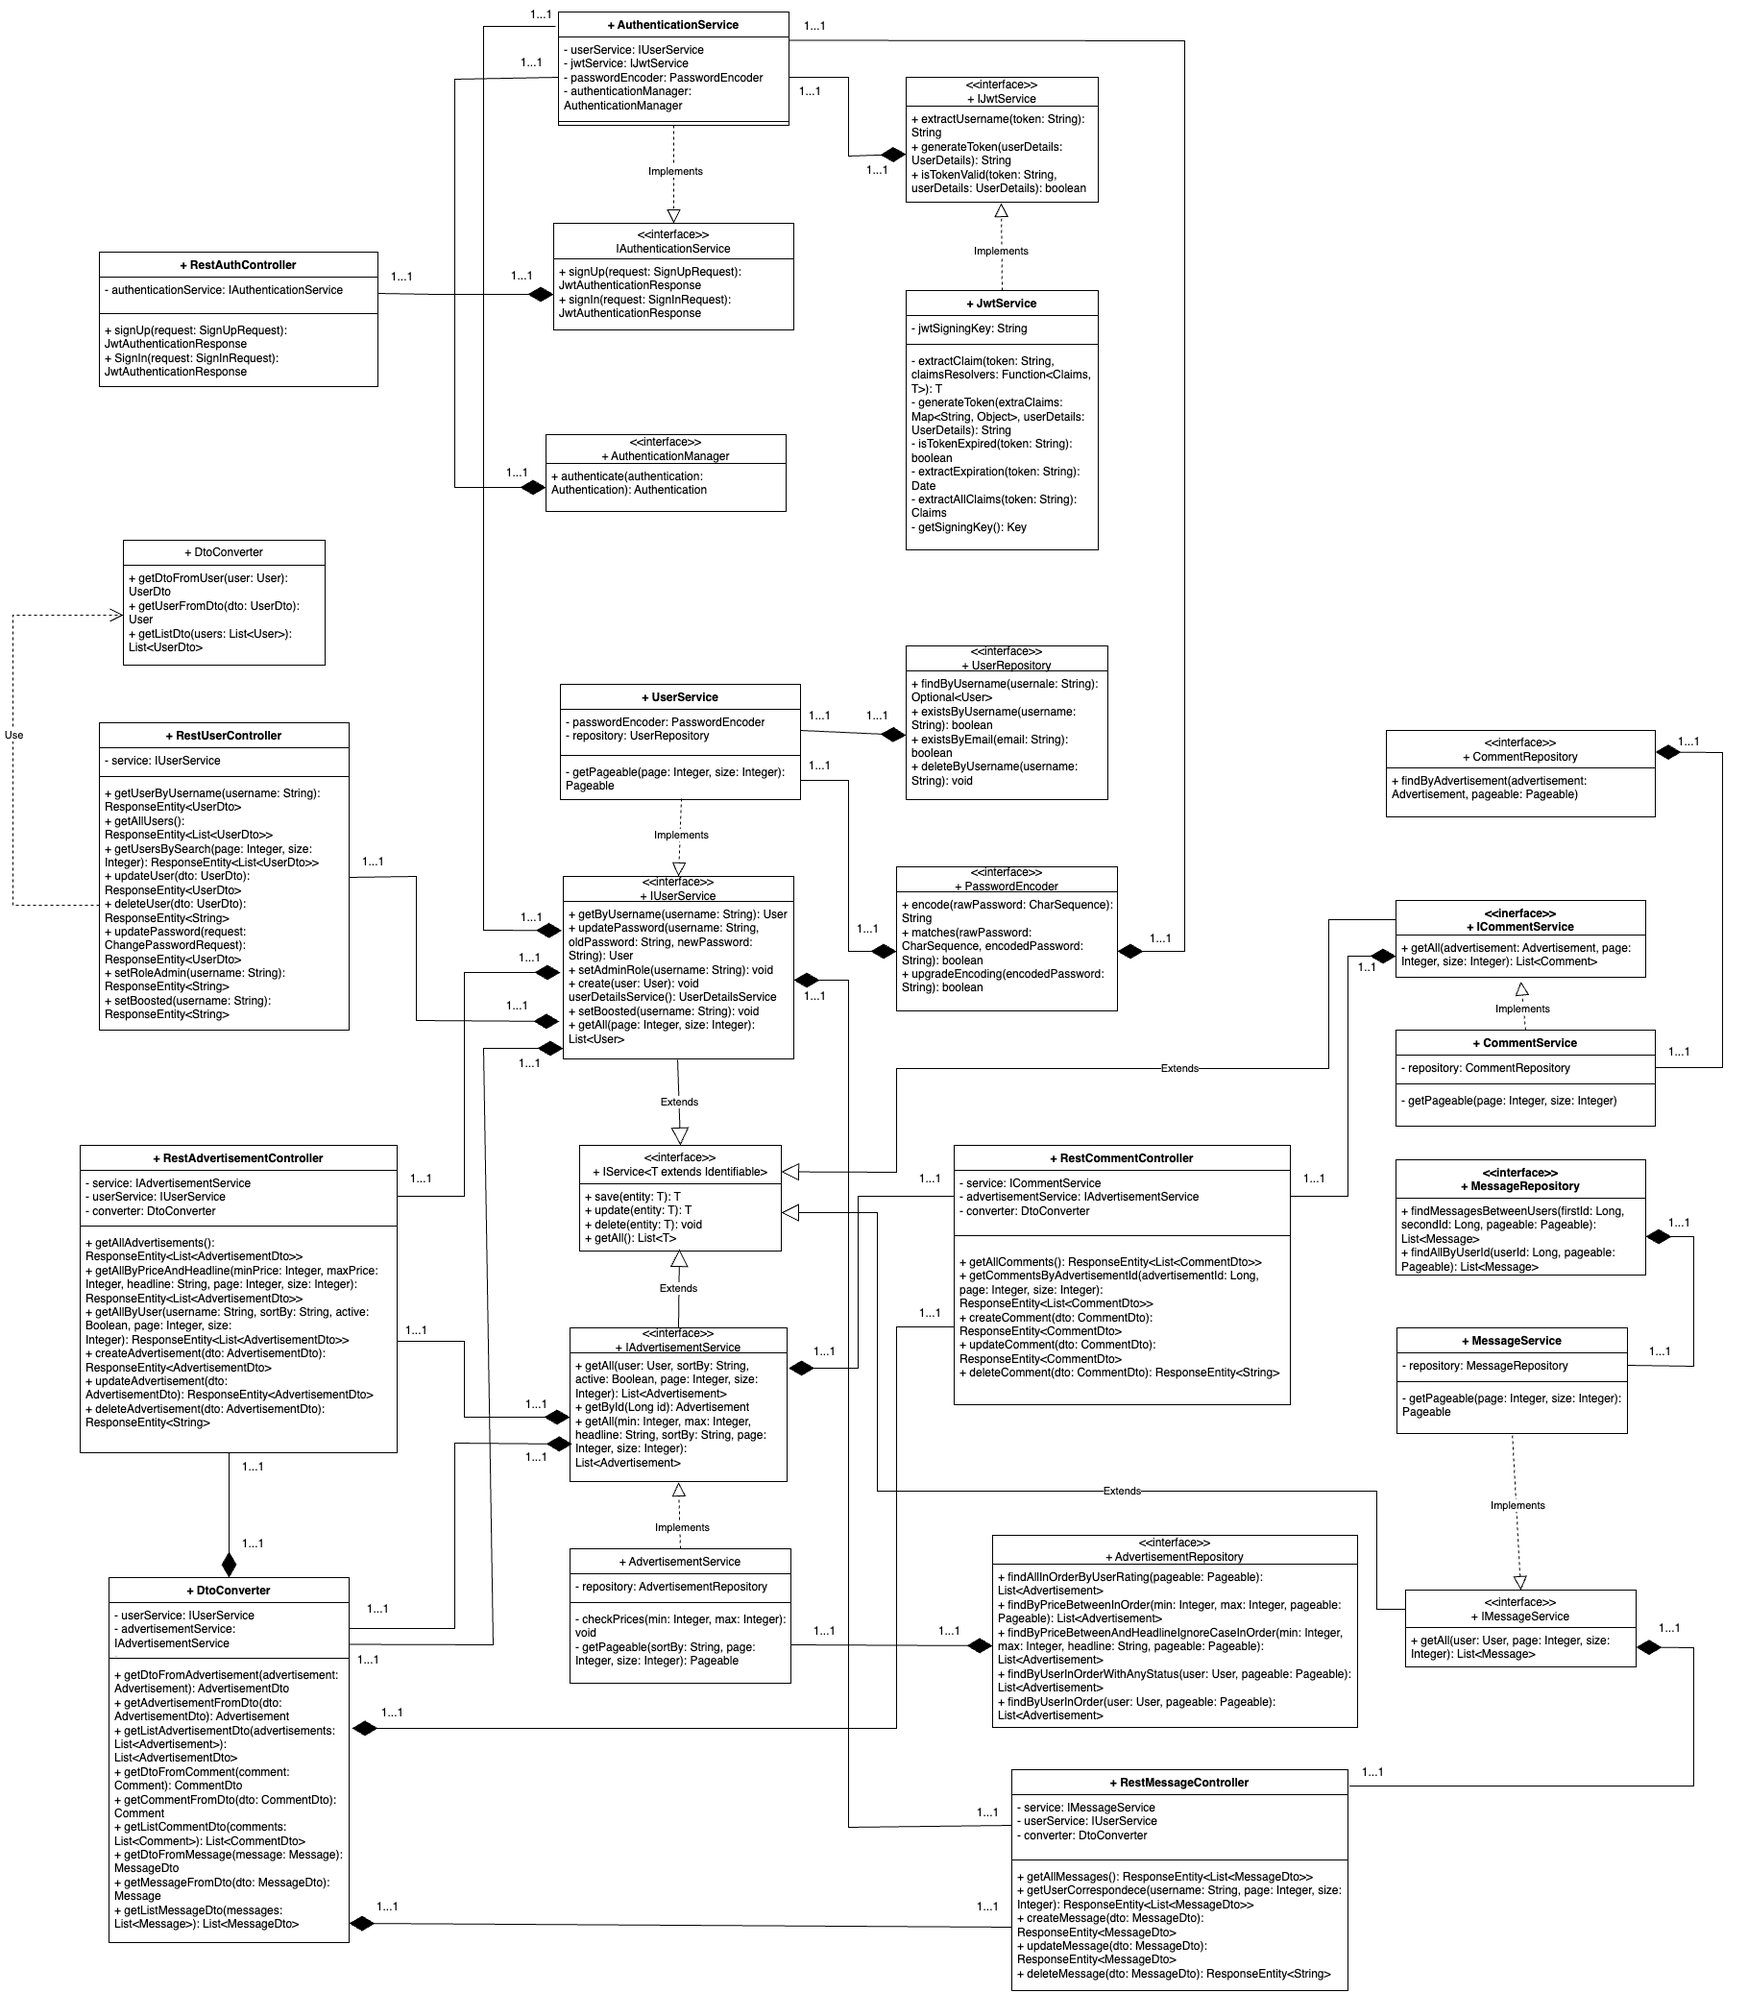
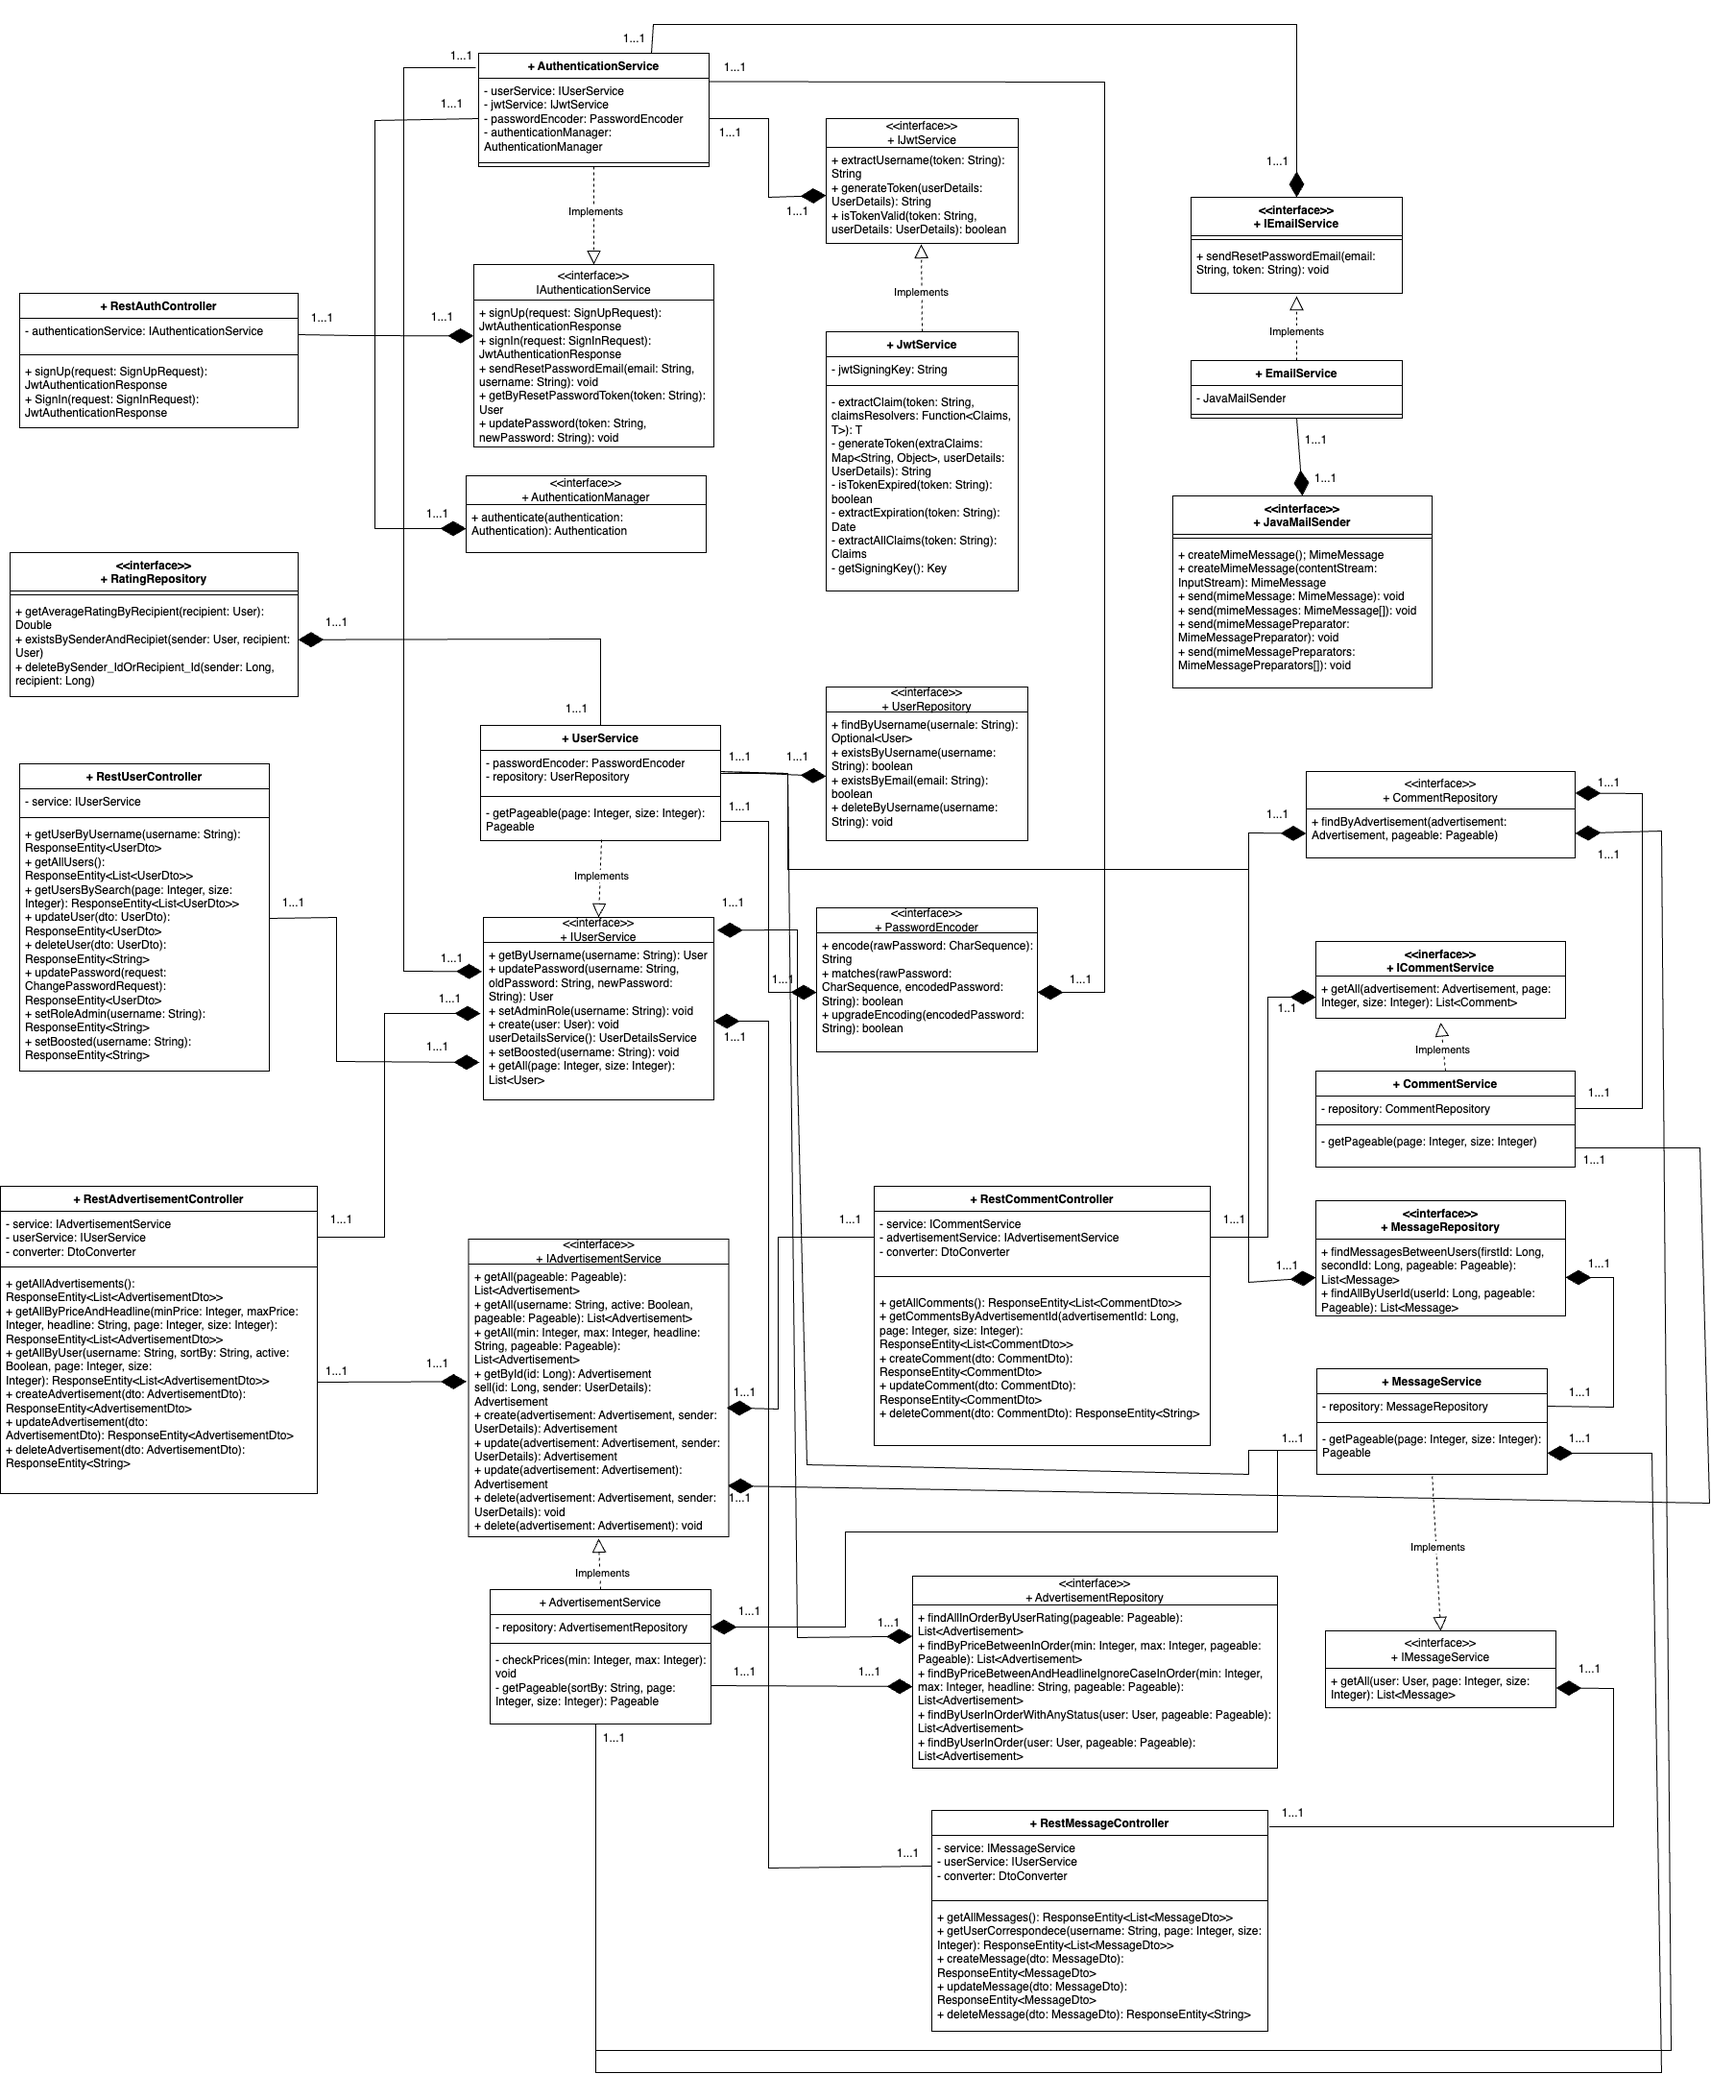
Update uml and cleaned up code

diff --git a/domain/src/main/java/rf/senla/domain/service/CommentService.java b/domain/src/main/java/rf/senla/domain/service/CommentService.java
@@ -22,9 +22,9 @@ import java.util.List;
 @Service
 @RequiredArgsConstructor
 public class CommentService implements ICommentService {
-    private final UserService userService;
+    private final IUserService userService;
     private final CommentRepository repository;
-    private final AdvertisementService advertisementService;
+    private final IAdvertisementService advertisementService;
 
     @Override
     @Transactional

diff --git a/domain/src/main/java/rf/senla/domain/service/AdvertisementService.java b/domain/src/main/java/rf/senla/domain/service/AdvertisementService.java
@@ -28,7 +28,7 @@ import java.util.List;
 @RequiredArgsConstructor
 @SuppressWarnings("java:S6809")
 public class AdvertisementService implements IAdvertisementService {
-    private final UserService userService;
+    private final IUserService userService;
     private final AdvertisementRepository repository;
     private final CommentRepository commentRepository;
     private final MessageRepository messageRepository;

diff --git a/domain/src/main/java/rf/senla/domain/service/MessageService.java b/domain/src/main/java/rf/senla/domain/service/MessageService.java
@@ -27,7 +27,7 @@ import java.util.List;
 public class MessageService implements IMessageService {
     private final IUserService userService;
     private final MessageRepository repository;
-    private final AdvertisementService advertisementService;
+    private final IAdvertisementService advertisementService;
 
     @Override
     @Transactional
